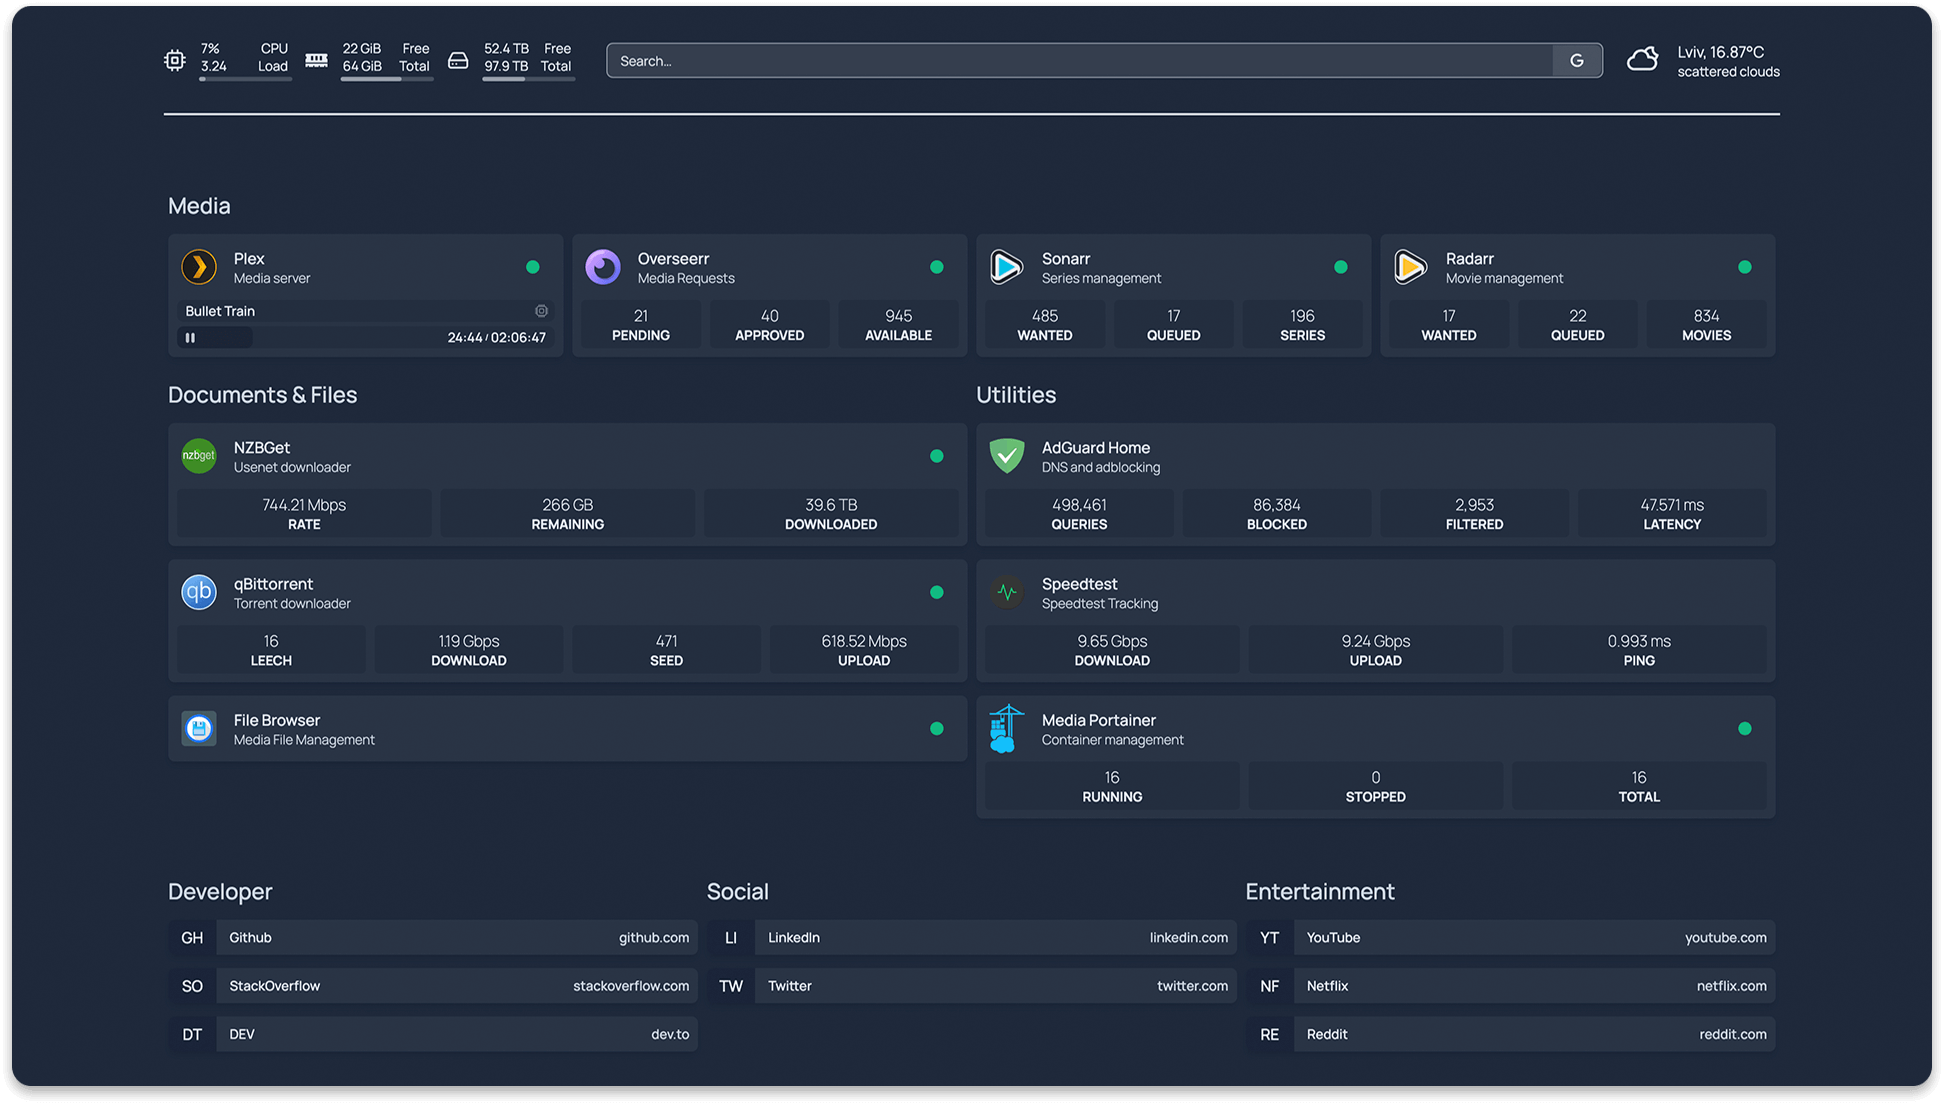
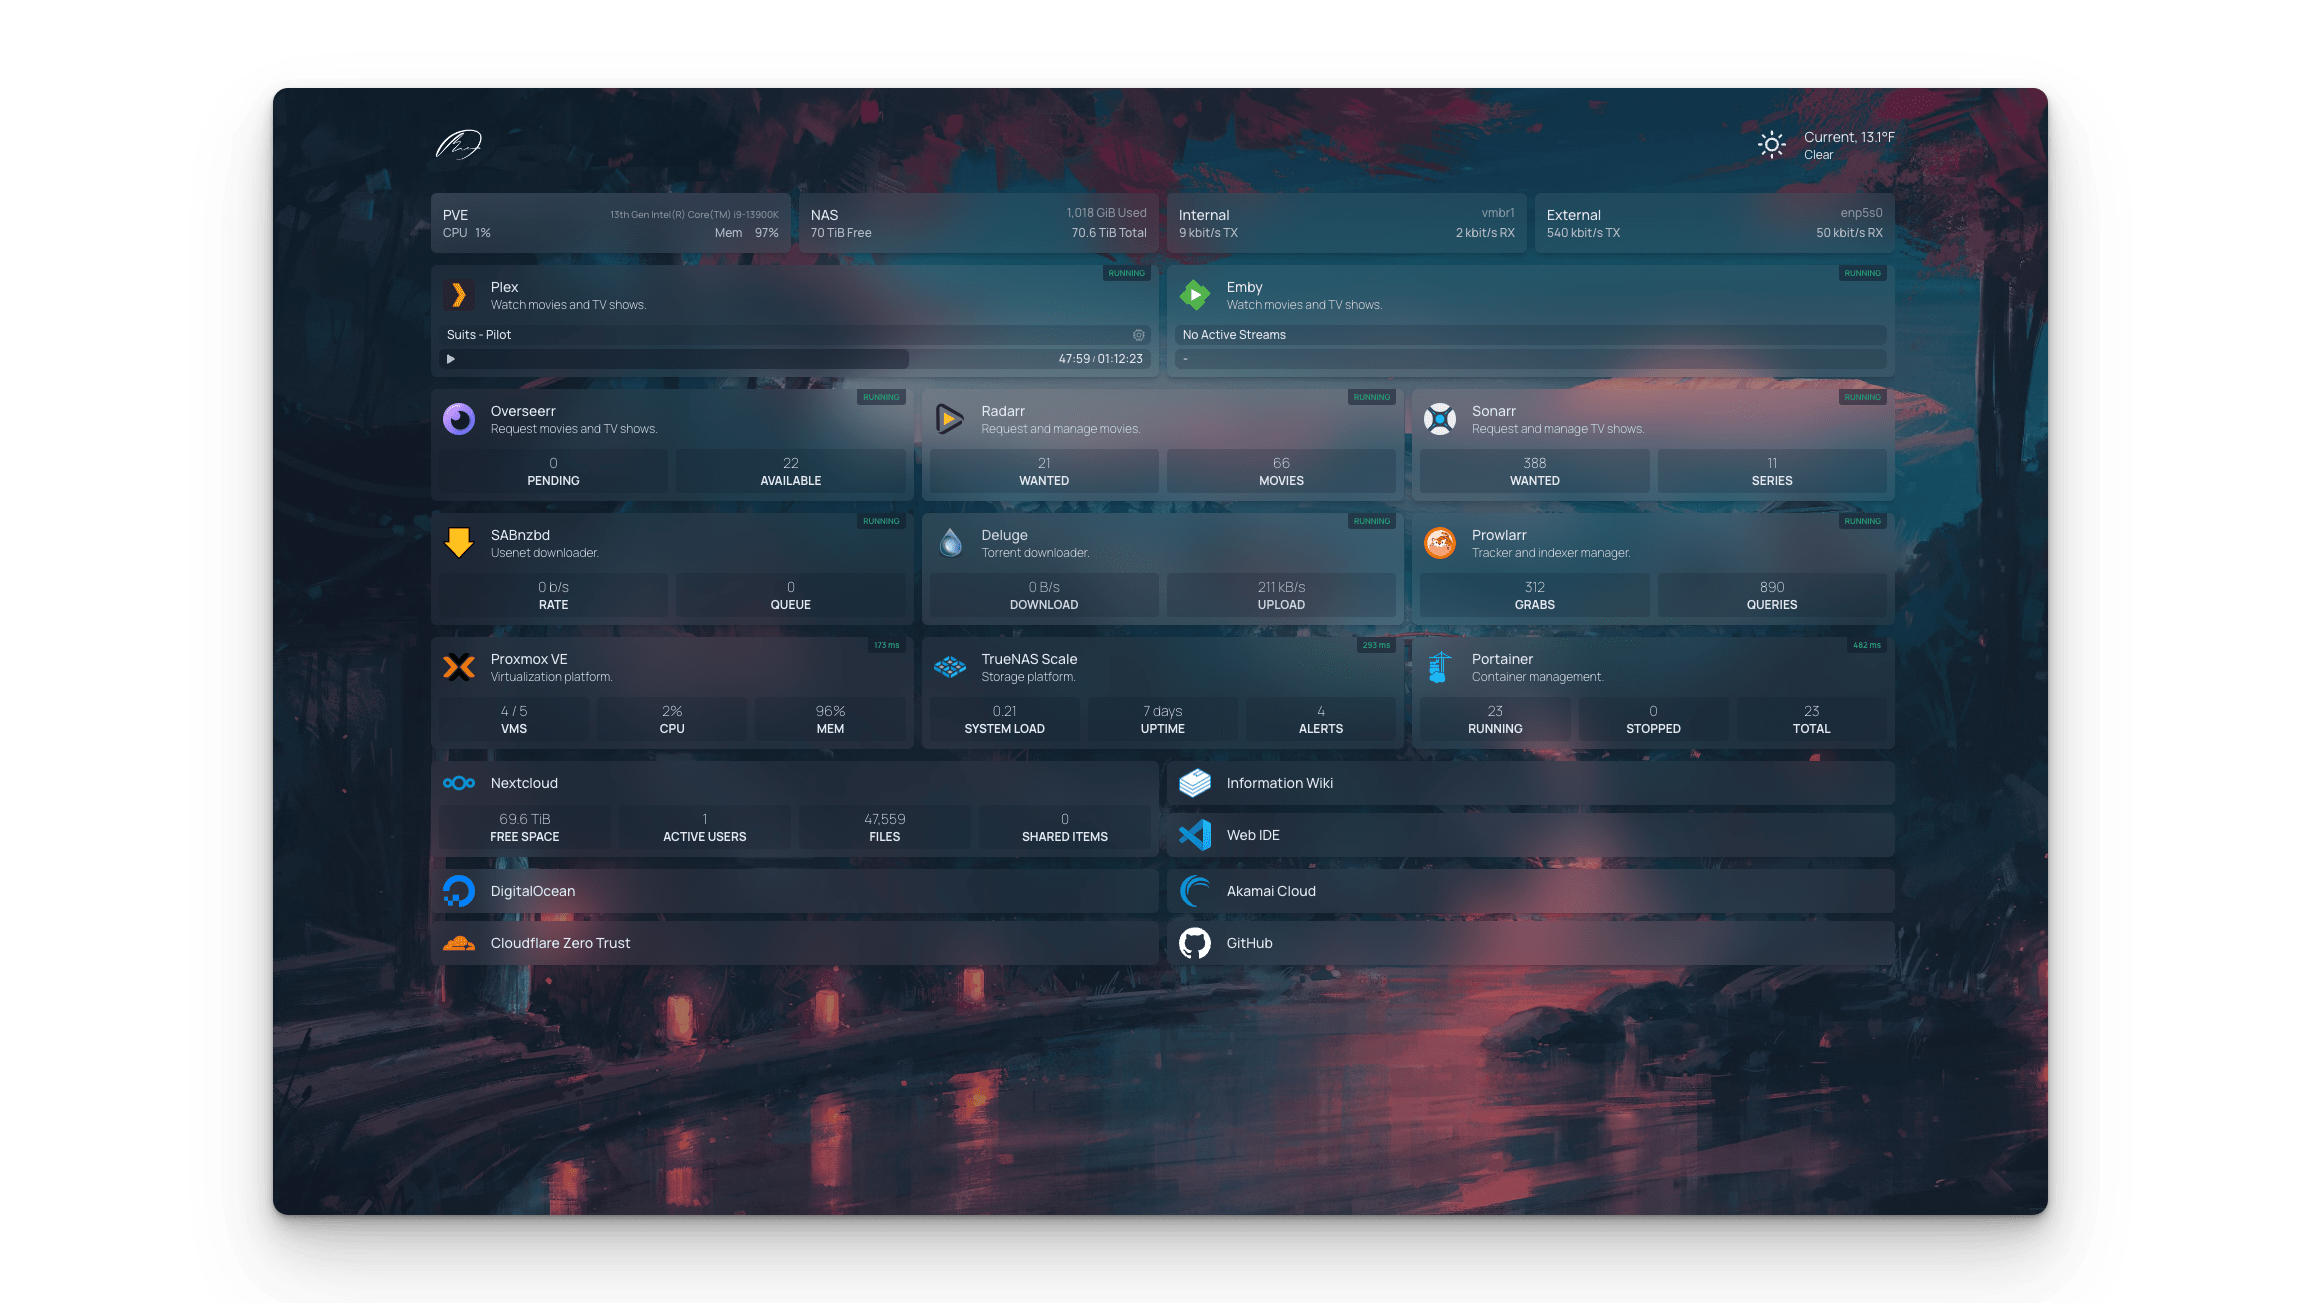
update readme image

diff --git a/README.md b/README.md
@@ -23,8 +23,6 @@
   <a href="https://paypal.me/phelpsben" title="Donate"><img alt="GitHub Sponsors" src="https://img.shields.io/github/sponsors/benphelps"></a>
 </p>
 
----
-
 # Features
 
 With features like quick search, bookmarks, weather support, a wide range of integrations and widgets, an elegant and modern design, and a focus on performance, Homepage is your ideal start to the day and a handy companion throughout it.
